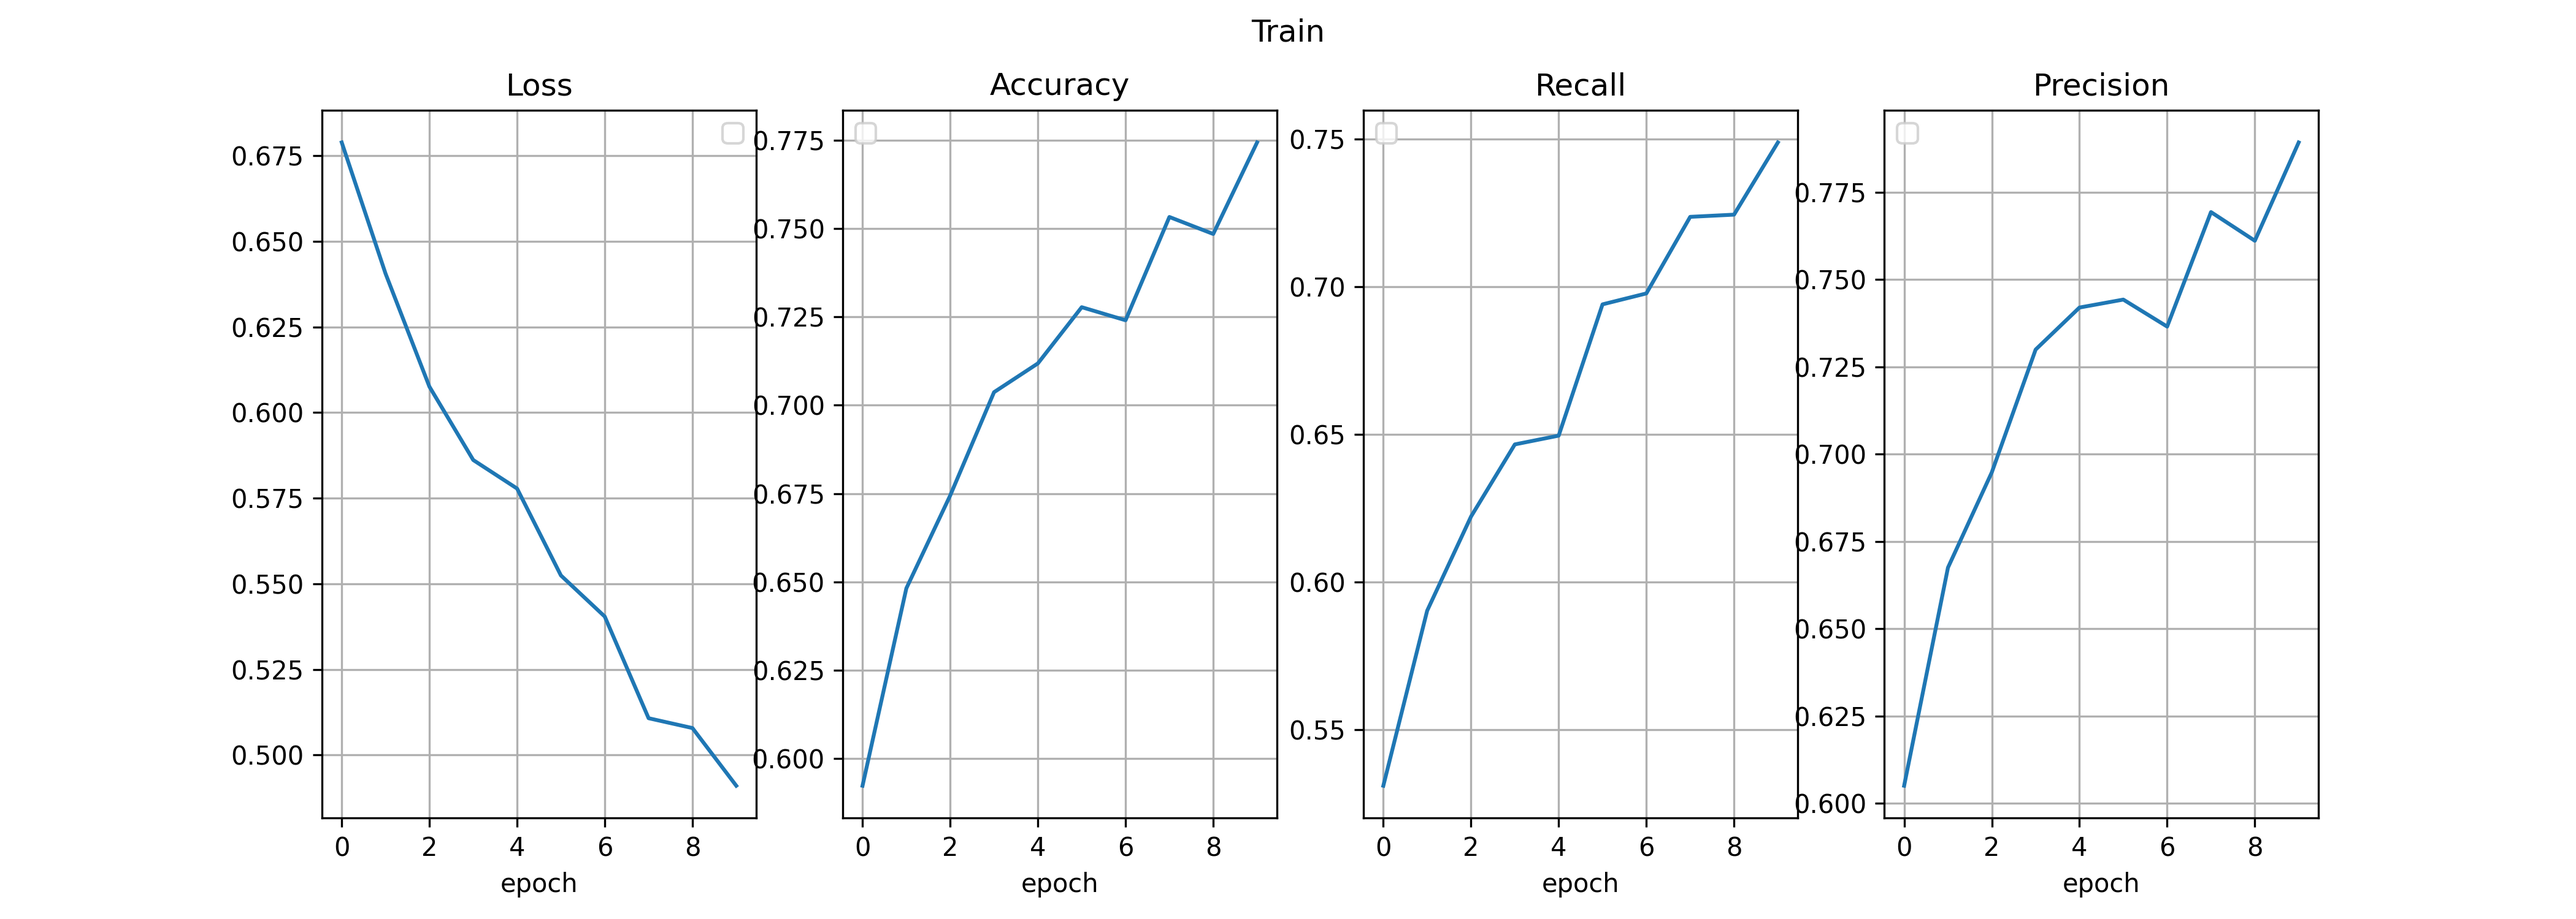
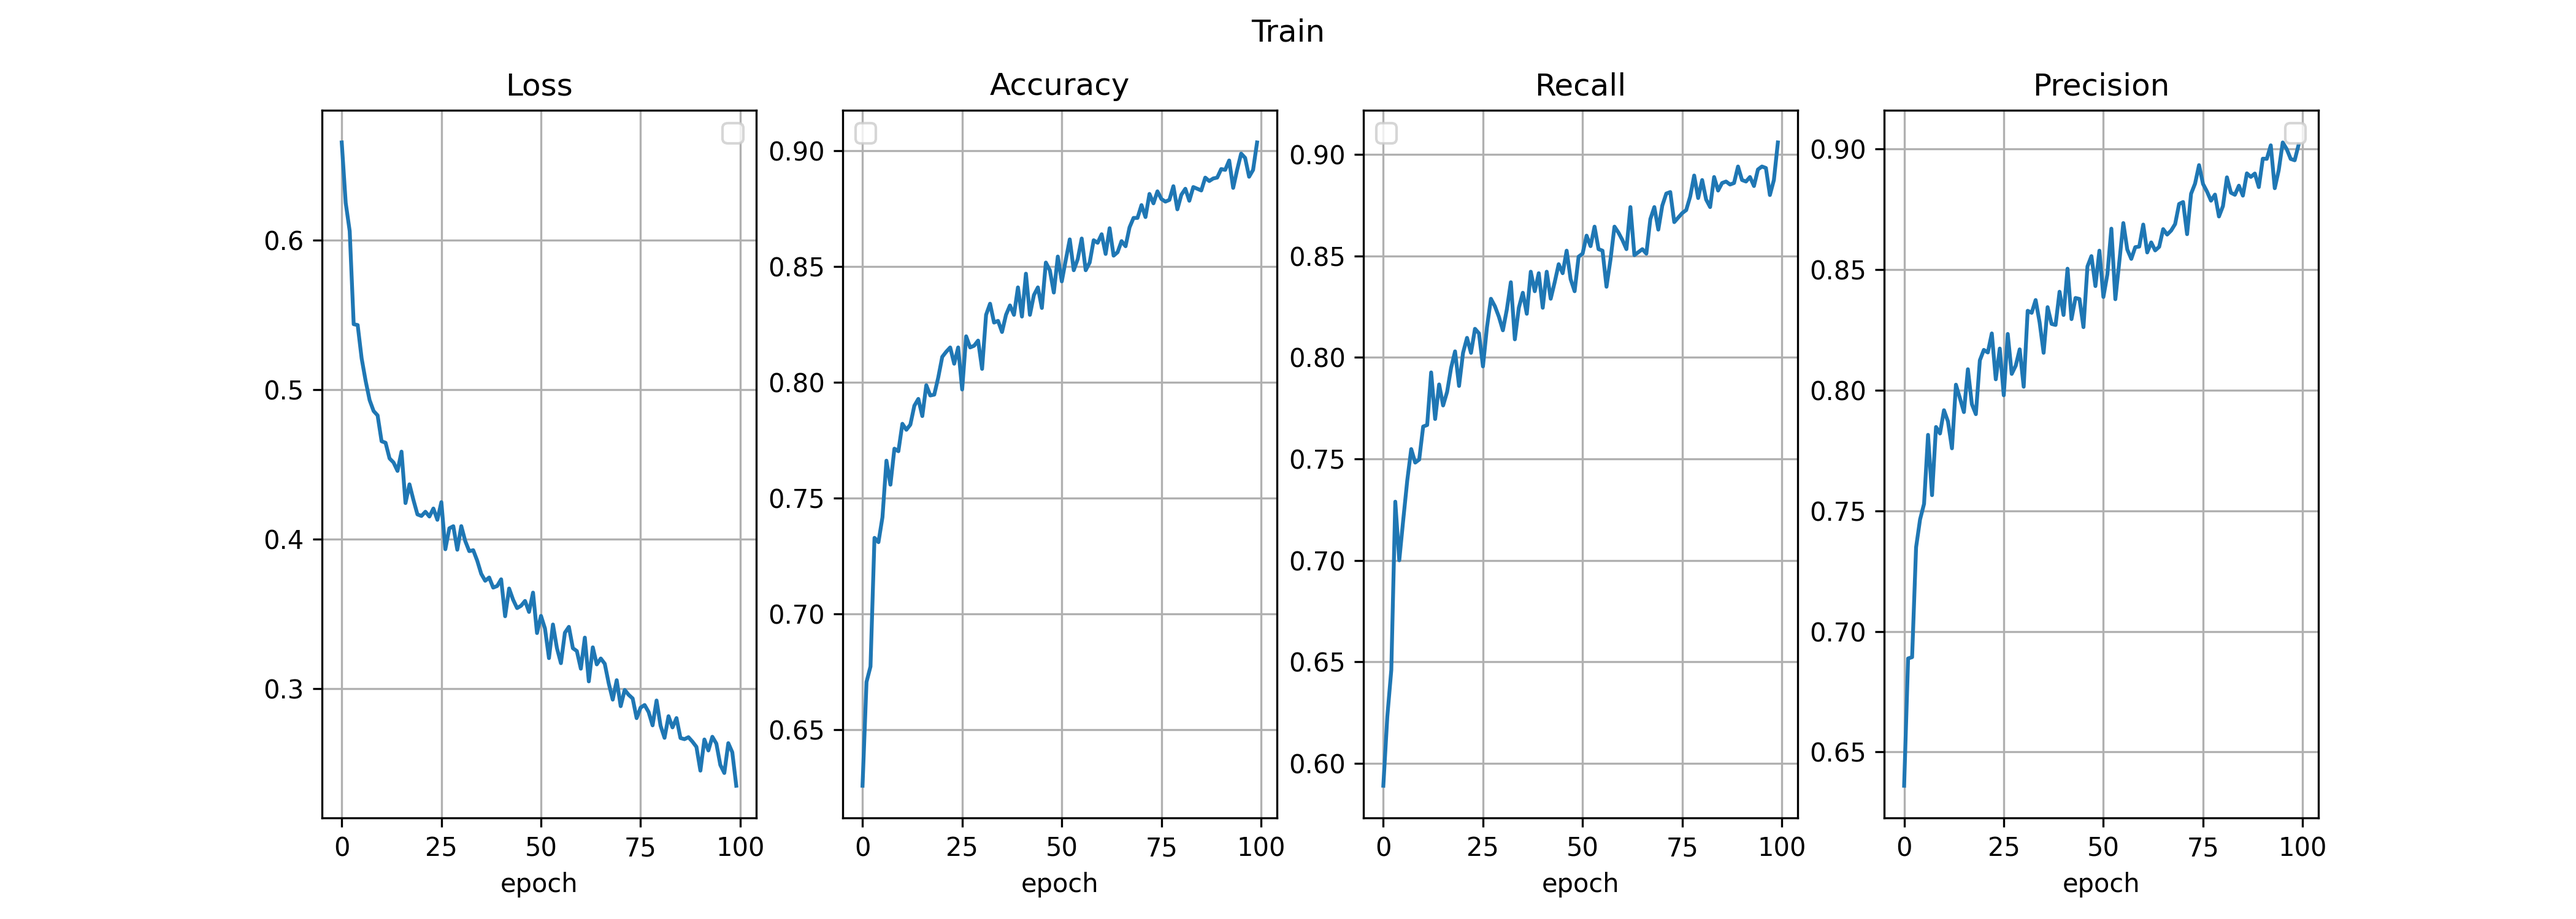
Update saving files

diff --git a/lab1/main.py b/lab1/main.py
@@ -22,12 +22,12 @@ def main():
 	valid_dataset = HotDogDataset("../dataset/valid", transform=transform)	
 	test_dataset = HotDogDataset("../dataset/test", transform=transform)
 
-	train_loader = DataLoader(train_dataset, batch_size=32, shuffle=True)
+	train_loader = DataLoader(train_dataset, batch_size=16, shuffle=True)
 	valid_loader = DataLoader(valid_dataset, batch_size=1, shuffle=False)
 	test_loader = DataLoader(test_dataset, batch_size=1, shuffle=False)
 
-	train(model=model, device=device, tloader=train_loader, vloader=valid_loader, epoch=10, validation=5)
-	#test(model=model, path=".\\weights\\_100.pth", device=device, tloader=test_loader)
+	train(model=model, device=device, tloader=train_loader, vloader=valid_loader, epoch=100, validation=10)
+	#test(model=model, path=".\\weights\\best_100.pth", device=device, tloader=test_loader)
 
 if __name__ == "__main__":
 	main()

diff --git a/lab1/train.py b/lab1/train.py
@@ -43,7 +43,6 @@ def train(model, device, tloader, vloader, epoch=10, validation=1):
 	
 	loss_func = nn.BCEWithLogitsLoss()
 	opt = torch.optim.Adam(model.parameters(), lr=0.001, betas=(0.9, 0.999), eps=1e-6) 
-#	opt = torch.optim.SGD(params=model.parameters(), lr=0.01)
 
 	current_epoch = 0
 	min_loss = 1e+6
@@ -103,7 +102,7 @@ def train(model, device, tloader, vloader, epoch=10, validation=1):
 		avg_loss = running_loss / len(vloader) 
 		if avg_loss < min_loss:
 			min_loss = avg_loss
-			torch.save(model.state_dict(), f"weights\\best_{epoch}.pth")
+			torch.save(model.state_dict(), f"weights\\valid_{current_epoch}.pth")
 
 		valid_results['loss'].append(running_loss / len(vloader))
 		valid_results['accuracy'].append(valid_metrics['accuracy'].compute().item())
